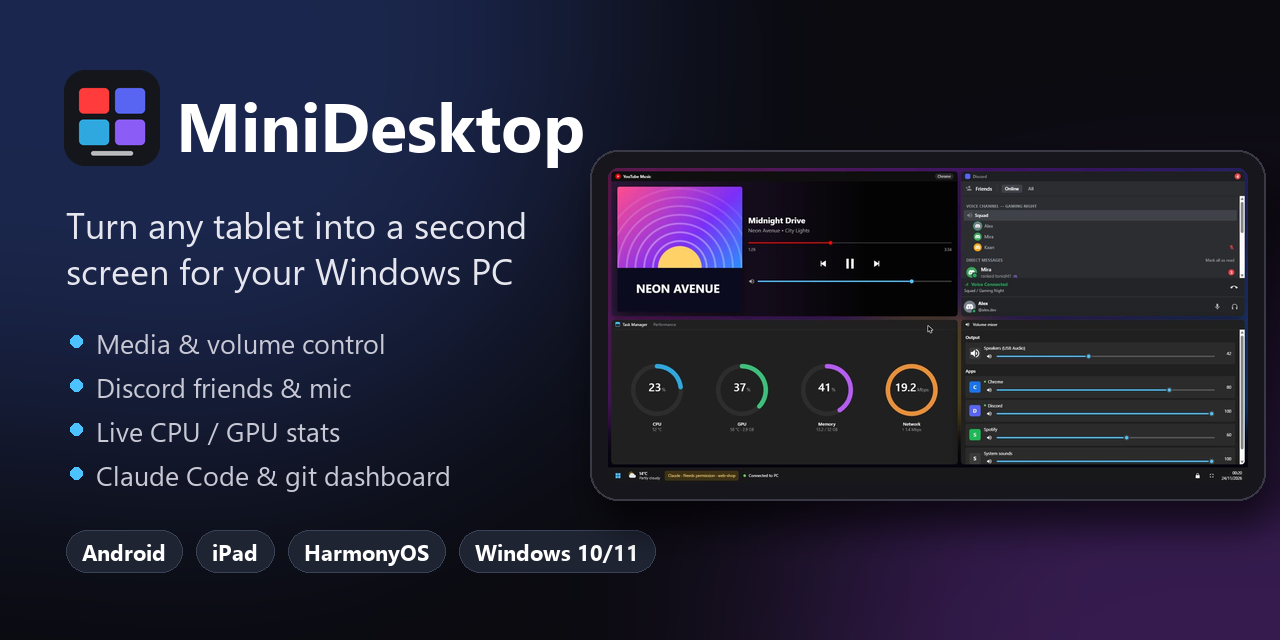
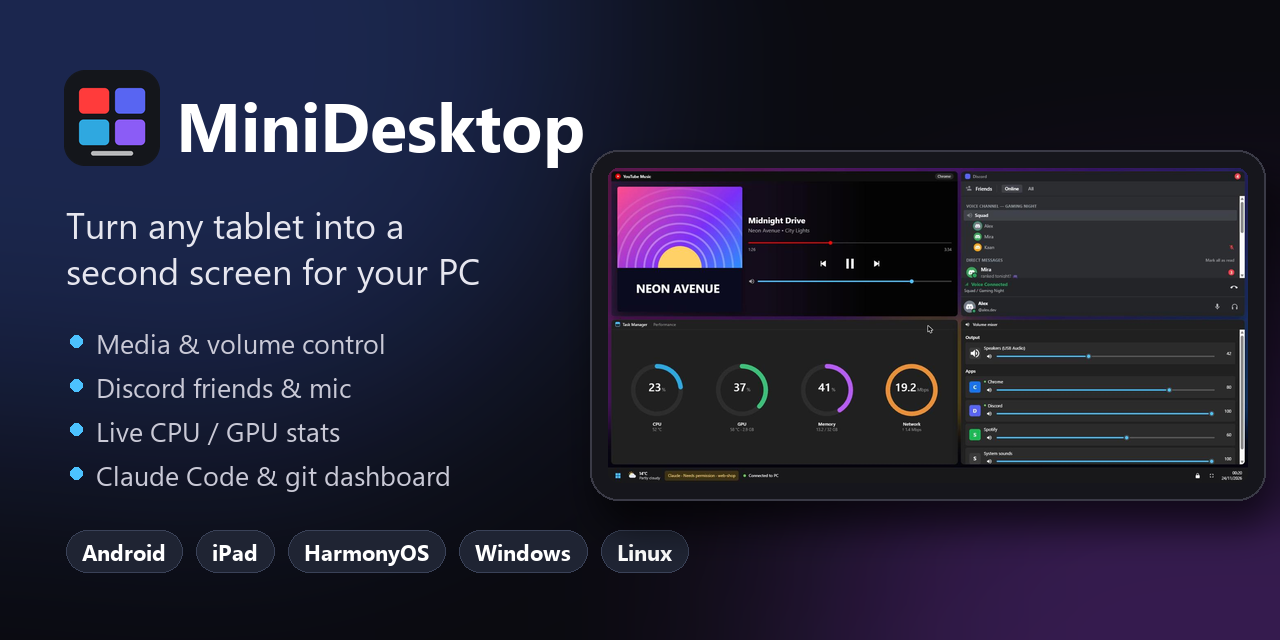
Docs and texts for 1.1.0: Linux install, CI badge, platform-specific labels

Changed region(s): [[0.0625, 0.4062, 0.4062, 0.4688], [0.4375, 0.8125, 0.5625, 0.9062], [0.3125, 0.3438, 0.4375, 0.375]]

diff --git a/server/admin.html b/server/admin.html
@@ -193,7 +193,8 @@
   <section class="card">
     <h2>CPU sıcaklığı</h2>
     <div>Şu an: <b id="ctemp">—</b></div>
-    <p class="muted">Windows Ryzen sıcaklığını doğrudan vermez. <a href="https://github.com/LibreHardwareMonitor/LibreHardwareMonitor/releases" target="_blank">LibreHardwareMonitor</a>'ü indir, <b>yönetici olarak</b> çalıştır, <b>Options → Remote Web Server → Run</b>'ı aç (port 8085). Değer otomatik gelir.</p>
+    <p class="muted" id="ctemp-linux" hidden>Linux'ta çekirdek sensörlerinden otomatik okunur. Görünmüyorsa <code>lm-sensors</code> paketini kurup <code>sudo sensors-detect</code> çalıştır.</p>
+    <p class="muted" id="ctemp-win">Windows Ryzen sıcaklığını doğrudan vermez. <a href="https://github.com/LibreHardwareMonitor/LibreHardwareMonitor/releases" target="_blank">LibreHardwareMonitor</a>'ü indir, <b>yönetici olarak</b> çalıştır, <b>Options → Remote Web Server → Run</b>'ı aç (port 8085). Değer otomatik gelir.</p>
   </section>
 </main>
 <script>
@@ -205,6 +206,8 @@ function t(s, vars) {
   return r;
 }
 const EN_HTML = {
+  'Linux\'ta çekirdek sensörlerinden otomatik okunur. Görünmüyorsa <code>lm-sensors</code> paketini kurup <code>sudo sensors-detect</code> çalıştır.':
+    'On Linux it is read automatically from the kernel sensors. If it is missing, install <code>lm-sensors</code> and run <code>sudo sensors-detect</code>.',
   'Modem bu PC\'ye yeni bir adres verdi (<code id="oldip"></code> → <code id="newip"></code>). Tablet eski adrese bağlanmaya çalışıyor: aşağıdaki QR kodu tabletle <b>yeniden okut</b>. Tablette uygulama olarak kurduysan Chrome ayarındaki adresi de güncelle (en alttaki bölüm).':
     'Your router gave this PC a new address (<code id="oldip"></code> → <code id="newip"></code>). The tablet is still trying the old one: <b>scan the QR code below again</b>. If you installed it as an app on the tablet, also update the address in the Chrome setting (last section).',
   'Tablet bu PC ile <b>aynı Wi-Fi ağında</b> olmalı. Tabletin kamerasıyla QR kodu okut ya da Chrome\'da şu adresi açıp PIN\'i gir:':
@@ -424,6 +427,8 @@ async function load() {
   $("#s-connect").hidden = s.enabled;
   $("#s-disconnect").hidden = $("#sreauth").hidden = !s.enabled;
   if (s.custom_app && !sappLoaded) { sappLoaded = true; $("#sappid").value = s.app_id; }
+  $("#ctemp-linux").hidden = d.platform !== "linux";
+  $("#ctemp-win").hidden = d.platform === "linux";
   $("#ctemp").textContent = d.cpu_temp != null ? d.cpu_temp.toFixed(0) + " °C" : t("okunamıyor");
 }
 let modesLoaded = false, devLoaded = false, keysLoaded = false, rpcOpened = false, sappLoaded = false;

diff --git a/tools/make_social_preview.py b/tools/make_social_preview.py
@@ -39,15 +39,15 @@ def main():
     logo = Image.open(ROOT / "web" / "icon-512.png").convert("RGBA").resize((96, 96), Image.LANCZOS)
     img.paste(logo, (64, 70), logo)
     d.text((176, 78), "MiniDesktop", font=bold(68), fill="#ffffff")
-    d.text((66, 200), "Turn any tablet into a second", font=reg(36), fill="#e6e6ef")
-    d.text((66, 246), "screen for your Windows PC", font=reg(36), fill="#e6e6ef")
+    d.text((66, 200), "Turn any tablet into a", font=reg(36), fill="#e6e6ef")
+    d.text((66, 246), "second screen for your PC", font=reg(36), fill="#e6e6ef")
     y = 324
     for f in ("Media & volume control", "Discord friends & mic", "Live CPU / GPU stats", "Claude Code & git dashboard"):
         d.ellipse((70, y + 11, 82, y + 23), fill="#4cc2ff")
         d.text((96, y), f, font=reg(27), fill="#c9c9d6")
         y += 44
     x = 66
-    for chip in ("Android", "iPad", "HarmonyOS", "Windows 10/11"):
+    for chip in ("Android", "iPad", "HarmonyOS", "Windows", "Linux"):
         tw = d.textlength(chip, font=bold(22))
         d.rounded_rectangle((x, 530, x + tw + 32, 572), radius=21, fill="#1f2433", outline="#3a4258")
         d.text((x + 16, 537), chip, font=bold(22), fill="#ffffff")

diff --git a/app/control.py b/app/control.py
@@ -418,7 +418,7 @@ class App:
         bottom = tk.Frame(f, bg=C["bg"])
         bottom.pack(fill="x", padx=18, pady=(4, 14))
         self.auto_var = tk.BooleanVar(value=autostart_get())
-        tk.Checkbutton(bottom, text=tr("Windows açılışında başlat"), variable=self.auto_var, command=self.toggle_autostart,
+        tk.Checkbutton(bottom, text=tr("Windows açılışında başlat") if WINDOWS else tr("Oturum açılınca başlat"), variable=self.auto_var, command=self.toggle_autostart,
                        bg=C["bg"], fg=C["text"], selectcolor=C["card"], activebackground=C["bg"], activeforeground=C["text"],
                        font=(FONT, 10), bd=0, highlightthickness=0).pack(side="left")
         Button(bottom, tr("Gizli simgelere küçült"), self.hide_to_tray, kind="ghost", padx=8, pady=3).pack(side="right")

diff --git a/server/i18n.py b/server/i18n.py
@@ -150,6 +150,7 @@ EN = {
     "Yeniden başlat": "Restart",
     "Yönetim paneli ↗": "Admin panel ↗",
     "Windows açılışında başlat": "Start with Windows",
+    "Oturum açılınca başlat": "Start on login",
     "Gizli simgelere küçült": "Minimize to tray",
     "Pencereyi kapatınca ya da küçültünce MiniDesktop gizli simgelerde çalışmaya devam eder.": "When you close or minimize this window, MiniDesktop keeps running in the hidden icons.",
     "MiniDesktop'ı göster": "Show MiniDesktop",

diff --git a/server/main.py b/server/main.py
@@ -314,6 +314,7 @@ async def admin_info(request: Request, ip: str = ""):
         "devcfg": devcfg.data,
         "gh": bool(gitwatch.gh["available"]),
         "cpu_temp": (state.get("stats") or {}).get("cpu", {}).get("temp"),
+        "platform": "windows" if sys.platform == "win32" else "linux",
     }
 
 

diff --git a/README.md b/README.md
@@ -4,13 +4,14 @@
 
 <h1>MiniDesktop</h1>
 
-<p><b>Turn any tablet into a second, touch-friendly mini desktop for your Windows PC.</b><br>
+<p><b>Turn any tablet into a second, touch-friendly mini desktop for your Windows or Linux PC.</b><br>
 Media controls · Discord friends &amp; mic · live CPU/GPU stats · Claude Code &amp; developer dashboard · game mode</p>
 
 <p>
   <a href="https://github.com/asimbakii/MiniDesktop/releases/latest"><img alt="Latest release" src="https://img.shields.io/github/v/release/asimbakii/MiniDesktop?label=download&amp;color=4cc2ff"></a>
   <a href="LICENSE"><img alt="MIT license" src="https://img.shields.io/github/license/asimbakii/MiniDesktop?color=6ccb5f"></a>
-  <img alt="Windows 10/11" src="https://img.shields.io/badge/PC-Windows%2010%20%7C%2011-0078d4">
+  <a href="https://github.com/asimbakii/MiniDesktop/actions/workflows/ci.yml"><img alt="CI" src="https://github.com/asimbakii/MiniDesktop/actions/workflows/ci.yml/badge.svg"></a>
+  <img alt="PC: Windows 10/11 and Linux" src="https://img.shields.io/badge/PC-Windows%20%7C%20Linux-0078d4">
   <img alt="Tablets: Android, iPad, HarmonyOS" src="https://img.shields.io/badge/tablet-Android%20%7C%20iPad%20%7C%20HarmonyOS-8b5cf6">
   <a href="https://github.com/asimbakii/MiniDesktop/stargazers"><img alt="GitHub stars" src="https://img.shields.io/github/stars/asimbakii/MiniDesktop?style=social"></a>
 </p>
@@ -31,7 +32,7 @@ Media controls · Discord friends &amp; mic · live CPU/GPU stats · Claude Code
 
 <br>
 
-> **What is MiniDesktop?** A free, open-source **second screen / control panel** for Windows. Install it on your PC, scan a QR code with your tablet, and your tablet becomes a dashboard that looks like a tiny Windows desktop: a YouTube Music / Spotify player, Discord, Task Manager-style performance gauges, a per-app volume mixer and, for developers, a live **Claude Code**, git and terminal dashboard. Think of it as a **Stream Deck alternative** that uses the tablet you already own. No app store, no account, no cloud: everything stays on your home network.
+> **What is MiniDesktop?** A free, open-source **second screen / control panel** for Windows and Linux. Install it on your PC, scan a QR code with your tablet, and your tablet becomes a dashboard that looks like a tiny Windows desktop: a YouTube Music / Spotify player, Discord, Task Manager-style performance gauges, a per-app volume mixer and, for developers, a live **Claude Code**, git and terminal dashboard. Think of it as a **Stream Deck alternative** that uses the tablet you already own. No app store, no account, no cloud: everything stays on your home network.
 
 <br>
 
@@ -82,6 +83,8 @@ A Windows-style **lock screen** with clock, weather and now playing; a dimmed re
 
 ## ⬇ Download &amp; install
 
+### Windows 10 / 11
+
 <table>
 <tr><td>
 
@@ -99,6 +102,34 @@ A Windows-style **lock screen** with clock, weather and now playing; a dimmed re
 🌍 **Languages:** English and Turkish. MiniDesktop follows your Windows display language automatically; change it any time in the admin panel (*Language / Dil*). The tablet, admin panel and tray app switch together. [Add your language](CONTRIBUTING.md#adding-a-language) — it is a single dictionary per component.
 
 The window closes / minimizes to the **system tray** (hidden icons) and keeps running. Right-click the tray icon to open the admin panel, copy the tablet address, stop/start the server or quit. *Start with Windows* is a checkbox in the window and in the installer.
+
+### Linux
+
+```bash
+curl -L https://github.com/asimbakii/MiniDesktop/releases/latest/download/MiniDesktop-linux.tar.gz | tar xz
+cd MiniDesktop && ./install.sh            # add --autostart to start with your session
+```
+
+`install.sh` installs per user into `~/.local/share/minidesktop` (no root for MiniDesktop itself), offers to install the few missing system packages (apt, dnf, pacman, zypper), adds **MiniDesktop** to your app menu and a `minidesktop` command, and starts it. Remove it with `./uninstall.sh`.
+
+<details>
+<summary><b>Linux details</b> — what is used and what to know</summary>
+
+| Feature | On Linux |
+|---|---|
+| Media player | **MPRIS** (D-Bus): Spotify, Chrome/Chromium/Firefox (YouTube Music), VLC, Rhythmbox, Elisa… |
+| Volume mixer | **PulseAudio / PipeWire** (`pipewire-pulse`) — master and per-app volume |
+| Performance | psutil + NVML; CPU temperature from kernel sensors (`k10temp`, `coretemp`) |
+| Clipboard | `wl-clipboard` (Wayland) or `xclip` / `xsel` (X11); KeePassXC/KDE password entries are skipped |
+| Discord mute/deafen | Keybind mode via `xdotool` (X11), `ydotool` or `wtype` (Wayland). Discord's global keybinds work on X11 / XWayland. Full control (RPC) works on any session. |
+| Discord friends &amp; DMs | Needs the Social SDK bridge. The Linux package doesn't include it yet: build it with `bridge/build-bridge.sh` (see *Build from source*). |
+| Power menu | `loginctl lock-session`, `systemctl suspend / reboot / poweroff` |
+| Game mode | Steam (native + **Proton**), Heroic, Lutris, itch |
+| Tray icon | AppIndicator (KDE, XFCE, Cinnamon, …). **GNOME** needs the *AppIndicator and KStatusNotifierItem Support* extension. |
+| Firewall | If `ufw` / `firewalld` is active: `sudo ufw allow 8765/tcp` (the installer tells you) |
+
+Every push is tested on Ubuntu (Python 3.10 and 3.12) against a real MPRIS player, PulseAudio, X11 (Xvfb), the server and the tray app — see the [CI workflow](.github/workflows/ci.yml).
+</details>
 
 ---
 
@@ -204,12 +235,12 @@ Admin panel → *Developer mode* → **Install**. MiniDesktop adds hooks (`Sessi
 ## 🧭 How it works
 
 ```
- ┌───────────────────────── Windows PC ─────────────────────────┐         ┌──────── Tablet ────────┐
- │ MiniDesktop.exe (tray app)                                   │         │ Browser / home-screen  │
+ ┌──────────────────── PC (Windows / Linux) ────────────────────┐         ┌──────── Tablet ────────┐
+ │ MiniDesktop tray app                                         │         │ Browser / home-screen  │
  │   └─ server (Python, FastAPI + WebSocket, port 8765)         │  Wi-Fi  │ web app (HTML/JS/CSS)  │
- │        ├─ Windows media & audio APIs (WinRT, Core Audio)     │ ◄─────► │  live state over       │
+ │        ├─ media & audio: WinRT + Core Audio / MPRIS + Pulse  │ ◄─────► │  live state over       │
  │        ├─ psutil + NVML (performance)                        │   LAN   │  WebSocket, commands   │
- │        ├─ Discord RPC (local pipe) + Social SDK bridge (C++) │         │  back to the PC        │
+ │        ├─ Discord RPC (local IPC) + Social SDK bridge (C++)  │         │  back to the PC        │
  │        ├─ Claude Code hooks, git / gh, commands, clipboard   │         └────────────────────────┘
  │        └─ admin panel: http://localhost:8765/admin           │
  └──────────────────────────────────────────────────────────────┘
@@ -217,11 +248,13 @@ Admin panel → *Developer mode* → **Install**. MiniDesktop adds hooks (`Sessi
 
 - Everything runs **locally**; nothing is sent to a cloud service of ours. External calls: Open-Meteo (weather, only the city name), Discord, and GitHub through your own `gh` login.
 - Tablets pair with a **6-digit PIN / QR code** and get a per-device token. The admin panel only opens on the PC itself (`localhost`).
-- Data lives in `%LOCALAPPDATA%\MiniDesktop` (paired devices, Discord tokens, settings, log).
+- Data lives in `%LOCALAPPDATA%\MiniDesktop` on Windows and `~/.local/share/minidesktop/data` on Linux (paired devices, Discord tokens, settings, log).
 
 ---
 
 ## 🛠 Build from source
+
+**Windows**
 
 ```powershell
 git clone https://github.com/asimbakii/MiniDesktop.git
@@ -231,8 +264,17 @@ powershell -ExecutionPolicy Bypass -File tools\setup.ps1   # installs Python 3.1
 build.bat                                                   # PyInstaller + Inno Setup -> dist\MiniDesktop-Setup-<VERSION>.exe
 ```
 
+**Linux**
+
+```bash
+git clone https://github.com/asimbakii/MiniDesktop.git && cd MiniDesktop
+./install.sh                       # or, to run from the checkout:
+python3 -m venv .venv && .venv/bin/pip install -r requirements.txt && .venv/bin/python app/launcher.py
+python3 tests/linux_smoke.py       # the CI smoke test (needs a session bus, PulseAudio and X11)
+```
+
 - Installer build needs **Inno Setup 6** (`winget install JRSoftware.InnoSetup`). The version number lives in [`VERSION`](VERSION).
-- The Discord **Social SDK is not included** in this repository (license). Download the C++ SDK from the Discord Developer Portal, extract it into `bridge/sdk/`, and run `bridge\build-bridge.bat` (Visual Studio 2022+ with C++). `build.bat` bundles the bridge automatically when it exists.
+- The Discord **Social SDK is not included** in this repository (license). Download the C++ SDK from the Discord Developer Portal, extract it into `bridge/sdk/`, and run `bridge\build-bridge.bat` (Visual Studio 2022+ with C++) or `bridge/build-bridge.sh` on Linux (CMake + g++/clang, C++20). `build.bat` / `install.sh` pick up the bridge automatically when it exists.
 - CPU temperature on AMD/Intel: run [LibreHardwareMonitor](https://github.com/LibreHardwareMonitor/LibreHardwareMonitor) as administrator with *Remote Web Server* enabled (port 8085).
 
 <details>
@@ -244,10 +286,12 @@ MiniDesktop/
 ├─ server/         FastAPI server: media, audio, stats, Discord, Social SDK, modes, dev tools, admin panel
 ├─ web/            Tablet web app (vanilla HTML/CSS/JS, no build step)
 ├─ bridge/         Discord Social SDK bridge (C++, CMake)
-├─ installer/      Inno Setup script
-├─ tools/          setup.ps1, build.ps1, Claude Code hook
+├─ installer/      Inno Setup script (Windows)
+├─ tools/          setup.ps1, build.ps1, Claude Code hook, social preview generator
+├─ tests/          Linux smoke test (CI)
 ├─ docs/           screenshots, Turkish README
-└─ build.bat       one-click installer build
+├─ build.bat       one-click Windows installer build
+└─ install.sh      Linux installer (uninstall.sh to remove)
 ```
 </details>
 
@@ -259,14 +303,14 @@ MiniDesktop/
 <summary>The tablet cannot connect</summary>
 
 - PC and tablet must be on the **same network**. Some guest/"AP isolation" Wi-Fi networks block devices from seeing each other.
-- Click **Allow** on the firewall warning in the MiniDesktop window.
+- Windows: click **Allow** on the firewall warning in the MiniDesktop window. Linux: `sudo ufw allow 8765/tcp` (or the firewalld equivalent).
 - If your router gave the PC a new IP address, scan the new QR code. A DHCP reservation in your router prevents this.
 </details>
 
 <details>
 <summary>Nothing shows in the media player</summary>
 
-The player must appear in Windows' own media overlay (the one that opens with the volume keys). YouTube Music in Chrome/Edge, Spotify and most players do.
+Windows: the player must appear in Windows' own media overlay (the one that opens with the volume keys). Linux: the player must support MPRIS — check with `playerctl -l`. YouTube Music in Chrome/Edge/Firefox, Spotify and most players do.
 </details>
 
 <details>

diff --git a/CHANGELOG.md b/CHANGELOG.md
@@ -1,5 +1,16 @@
 # Changelog
 
+## [1.1.0] - 2026-11-24
+### Added
+- **Linux support** (X11 and Wayland): MPRIS media control, PulseAudio/PipeWire mixer, clipboard (wl-clipboard/xclip),
+  Discord keybinds (xdotool/ydotool/wtype), systemd power menu, Steam/Proton/Heroic/Lutris game detection, kernel CPU temperature,
+  Discord IPC for native/Flatpak/Snap installs, tray app with XDG autostart.
+- `install.sh` / `uninstall.sh` (per-user, installs missing packages on apt/dnf/pacman/zypper) and a Linux release archive.
+- CI on every push: Linux smoke test against a real MPRIS player, PulseAudio and X11 (Python 3.10 and 3.12), Windows import check.
+
+### Fixed
+- GitHub showed the license as "Other"; LICENSE is now the plain MIT text.
+
 ## [1.0.1] - 2026-11-24
 ### Added
 - **English user interface** for the tablet, admin panel, tray app and server messages, with automatic selection from the Windows display language and a *Language / Dil* switch in the admin panel.
